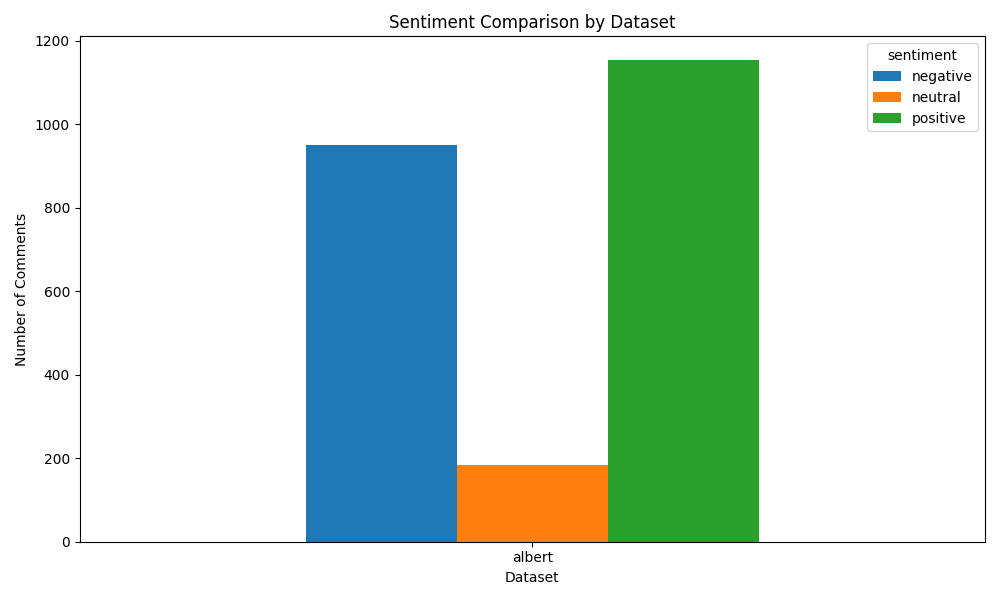
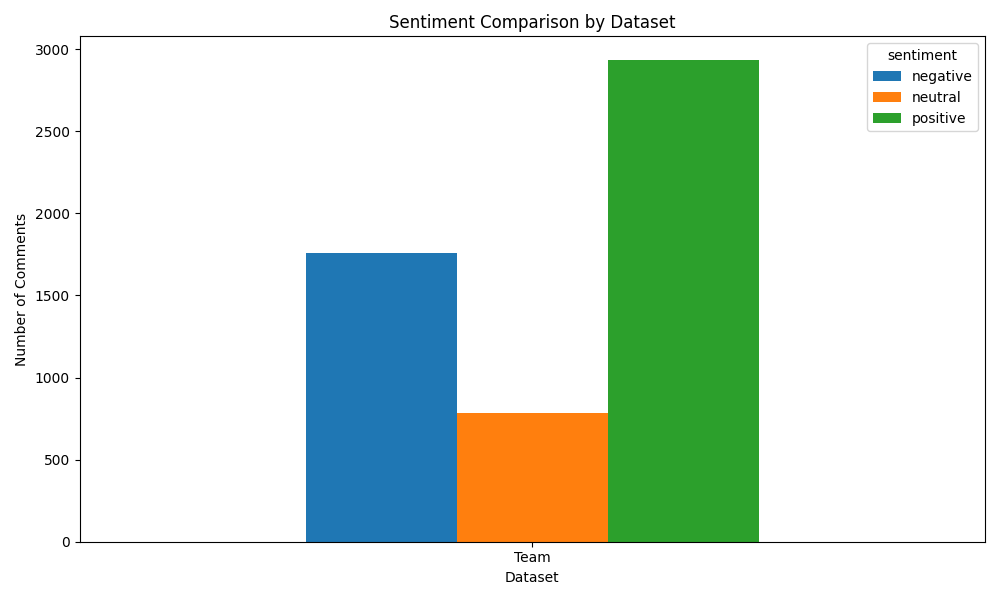
w2m5 update

diff --git a/missions/W2/W2M5/TeamPJ/src/visualize_car_type.py b/missions/W2/W2M5/TeamPJ/src/visualize_car_type.py
@@ -47,17 +47,17 @@ def main():
     if "car_type" not in df.columns:
         raise ValueError("car_type column does not exist.")
 
-    if "sentiment_name" not in df.columns:
+    if "sentiment" not in df.columns:
         if "sentiment" not in df.columns:
             raise ValueError("sentiment or sentiment_name column is required.")
-        df["sentiment_name"] = df["sentiment"].apply(normalize_sentiment_label)
+        df["sentiment"] = df["sentiment"].apply(normalize_sentiment_label)
 
     print("\nCar type counts:")
     print(df["car_type"].value_counts())
 
     print("\nSentiment counts by car_type:")
     count_df = (
-        df.groupby(["car_type", "sentiment_name"])
+        df.groupby(["car_name","car_type", "sentiment"])
         .size()
         .reset_index(name="count")
     )
@@ -65,7 +65,7 @@ def main():
 
     pivot_df = count_df.pivot(
         index="car_type",
-        columns="sentiment_name",
+        columns="sentiment",
         values="count",
     ).fillna(0)
 

diff --git a/missions/W2/W2M5/TeamPJ/config.py b/missions/W2/W2M5/TeamPJ/config.py
@@ -14,7 +14,7 @@ YOUTUBE_INPUT_CSV_PATH = "/Users/admin/Documents/GitHub/HDST_8th/missions/W2/dat
 
 # Prediction result
 # 모델이 감정 라벨을 붙인 결과 CSV
-LABELED_CSV_PATH = "data/output/youtube_comments_labeled_Final.csv"
+LABELED_CSV_PATH = "/Users/admin/Documents/GitHub/HDST_8th/missions/W2/W2M5/TeamPJ/data/output/youtube_comments_labeled_Final_0.4_0.6.csv"
 
 
 TRAINING_HISTORY_PATH = "logs/training_history_albert.csv"
@@ -135,7 +135,7 @@ PREDICTION_ERROR_LOG_PATH = "logs/prediction_errors.csv"
 # =========================
 
 LABELED_CSV_FILES = {
-    "albert": "data/output/youtube_comments_labeled_Final.csv",
+    "Team": "data/output/youtube_comments_labeled_Final_0.4_0.6.csv",
 }
 
 COMPARISON_OUTPUT_DIR = "output/comparison_wordclouds"

diff --git a/missions/W2/W2M5/TeamPJ/README.md b/missions/W2/W2M5/TeamPJ/README.md
@@ -5,6 +5,7 @@
 3. 스크레핑 데이터를 모델에서 넣어서 긍정, 부정 라벨 추가  
 4. 가장 긍정적인 차종과 가장 부정적인 차종 선택
 5. 긍정적인 차종에서 가장 많이 나온 장점, 부정적인 차종에서 가장 많이 나온 단점 추출
+6. 결론
 
 
 ## 1. 모델 학습
@@ -33,7 +34,16 @@ val acc, val loss
 ## 3. 라벨 추가
 댓글 csv 파일을 모델에 넣어서 긍정, 부정, 중립 판단
 중립의 경우 긍정, 부정이 아닌 정보글과 같은 경우를 제외하기 위해서 추가.
-학습 당시 데이터에는 라벨이 긍정과 부정만 있기 때문에 threshold 0.45, 0.55로 구분해서 중립 구역을 만들었음.
+학습 당시 데이터에는 라벨이 긍정과 부정만 있기 때문에 threshold 0.4, 0.6로 구분해서 중립 구역을 만들었음.
 
 
 ## 4. 가장 긍정적 차종, 가장 부정적 차종
+ioniq 9 : 71.3%
+Elantra : 43.5%
+
+## 5. 긍정적 차종의 장점, 부정적 차종의 단점
+threshold 0.2, 0.8로 확장시켜서 각각 긍정적/부정적 차종에서 가장 자주 발생하는 단어를 수집하였다.
+
+
+## 6. 결론
+가장 긍정적 차종인 아이오닉 9의 장점 단어와 가장 부정적 차종인 엘란트라(아반떼)의 단점 단어를 토대로 비즈니스적 가치를 창출한다.